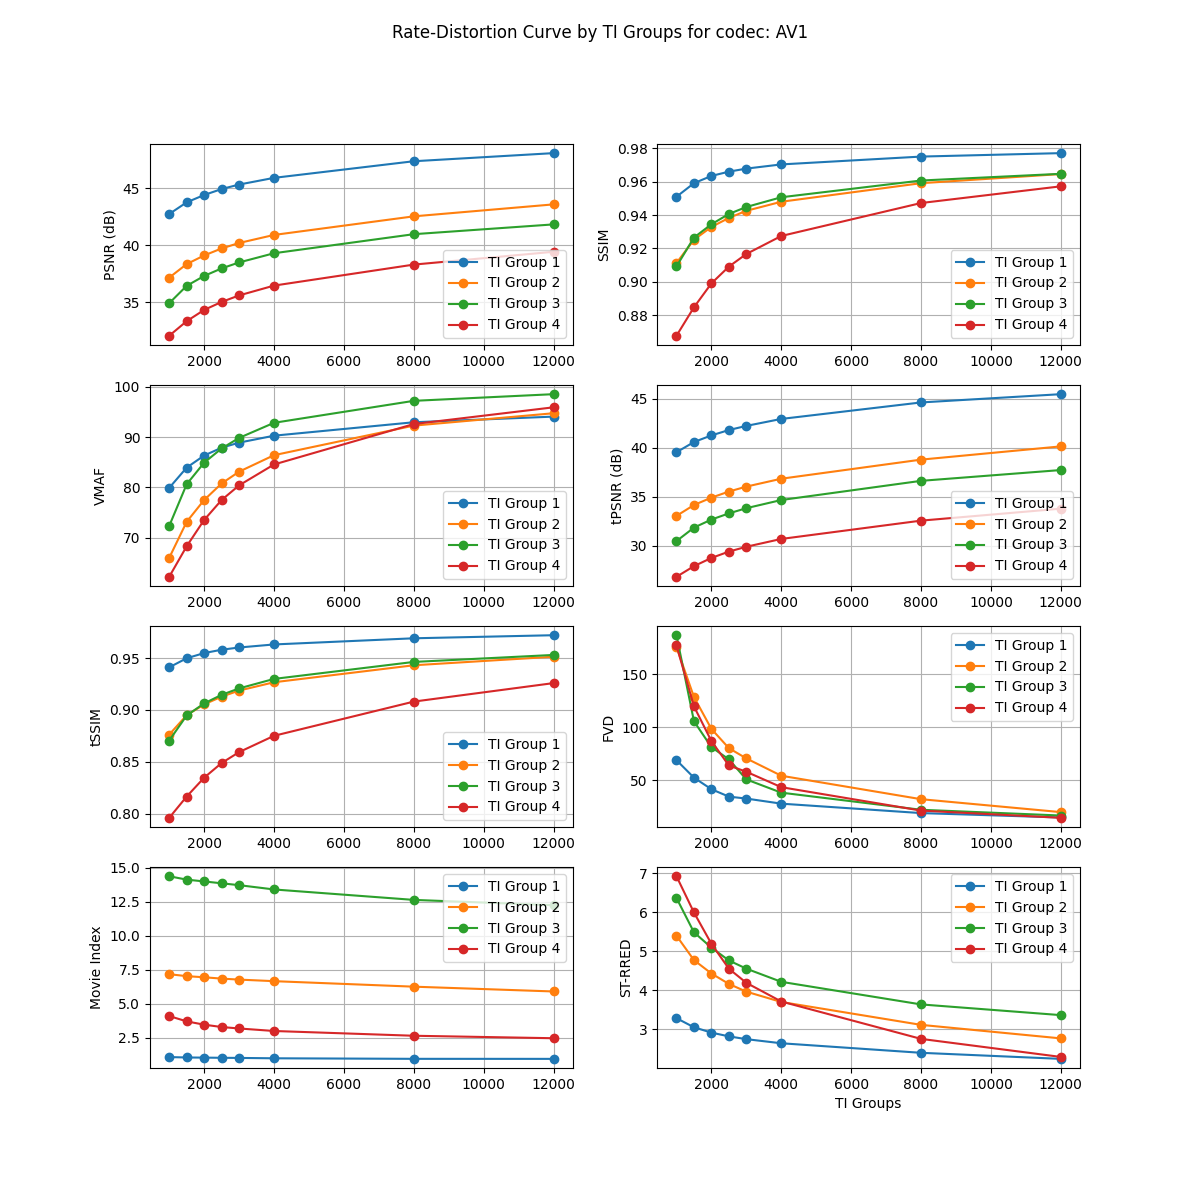
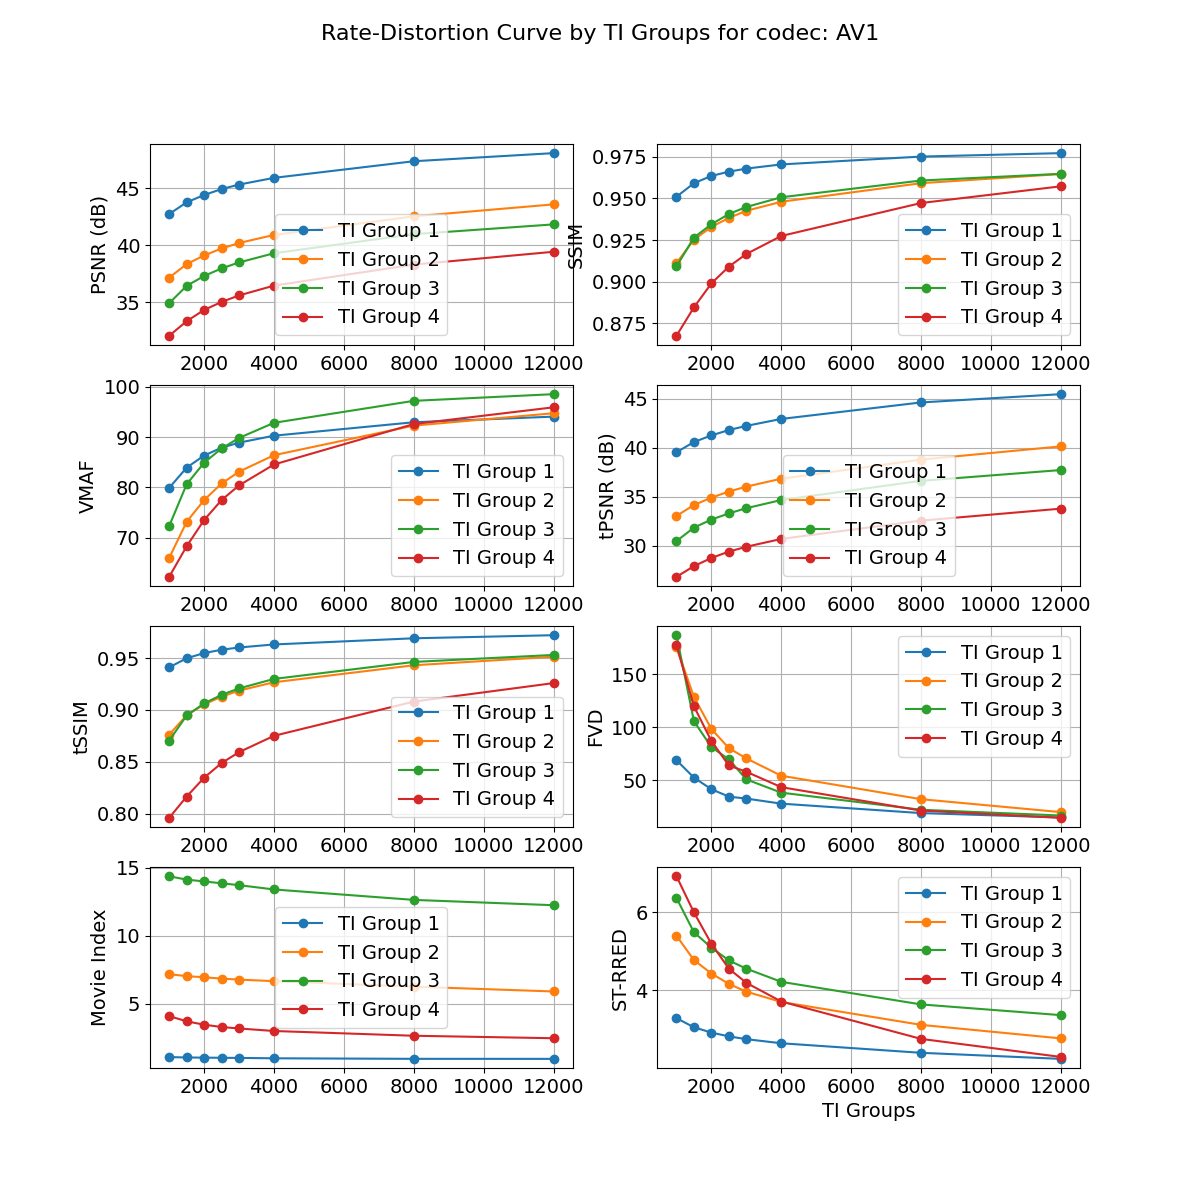
new visual

diff --git a/visualizations/visualize_results_line.py b/visualizations/visualize_results_line.py
@@ -14,6 +14,18 @@ dataset_2_files = {
     "BVI-HD": "results/eval_metrics_BVI-HD_"
 }
 
+SMALL_SIZE = 14
+MEDIUM_SIZE = 14
+BIGGER_SIZE = 16
+
+plt.rc('font', size=SMALL_SIZE)          # controls default text sizes
+plt.rc('axes', titlesize=SMALL_SIZE)     # fontsize of the axes title
+plt.rc('axes', labelsize=MEDIUM_SIZE)    # fontsize of the x and y labels
+plt.rc('xtick', labelsize=SMALL_SIZE)    # fontsize of the tick labels
+plt.rc('ytick', labelsize=SMALL_SIZE)    # fontsize of the tick labels
+plt.rc('legend', fontsize=SMALL_SIZE)    # legend fontsize
+plt.rc('figure', titlesize=BIGGER_SIZE)  # fontsize of the figure title
+
 
 def visualize_results_by_codec(output_dir="visualizations"):
     
@@ -526,11 +538,23 @@ def visualize_results_by_TI_group_deviation_of_codecs(output_dir="visualizations
                                markerfacecolor=color, markersize=10))
         ax.set_ylabel(metric.upper())
         ax.grid(True)
-        ax.legend(handles=legend_handles)
+        ax.legend(handles=legend_handles, loc=get_loc_by_metric(metric),frameon=True,framealpha=0.8,bbox_to_anchor=(0.0, 0.85) if metric=="movie_index" else None)
     plt.tight_layout(rect=[0, 0.03, 1, 0.97])
     plt.savefig(os.path.join(output_dir, "rd_curve_average_all_TI_groups.png"))
     plt.close()
 
+def get_loc_by_metric(metric_name):
+    metric_locs = {
+        "psnr": "lower right",
+        "ssim": "lower right",
+        "vmaf": "lower right",
+        "tpsnr": "lower right",
+        "tssim": "lower right",
+        "fvd": "upper right",
+        "movie_index": "upper left",
+        "st_rred": "upper right"
+    }
+    return metric_locs.get(metric_name.lower(), None)
 
 def visualize_results_by_video(output_dir="visualizations/plots_by_video"):
     for dataset in datasets:
@@ -574,9 +598,8 @@ def visualize_results_by_video(output_dir="visualizations/plots_by_video"):
                     metrics_for_video_by_level[video_name][level][codec]["st_rred"].append(video_data["st_rred"] if "st_rred" in video_data else 0)
         #print(list(metrics_for_video_by_level.values())[0].values())
         for video_name, metrics_by_level_codec in metrics_for_video_by_level.items():
-            plt.figure(figsize=(12, 12))
+            plt.figure(figsize=(16, 12))
             plt.suptitle(f"Rate-Distortion Curve for {video_name} in {dataset}")
-
             
             print(f"Plotting RD curve for video: {video_name} in dataset: {dataset}")
             print(metrics_by_level_codec)
